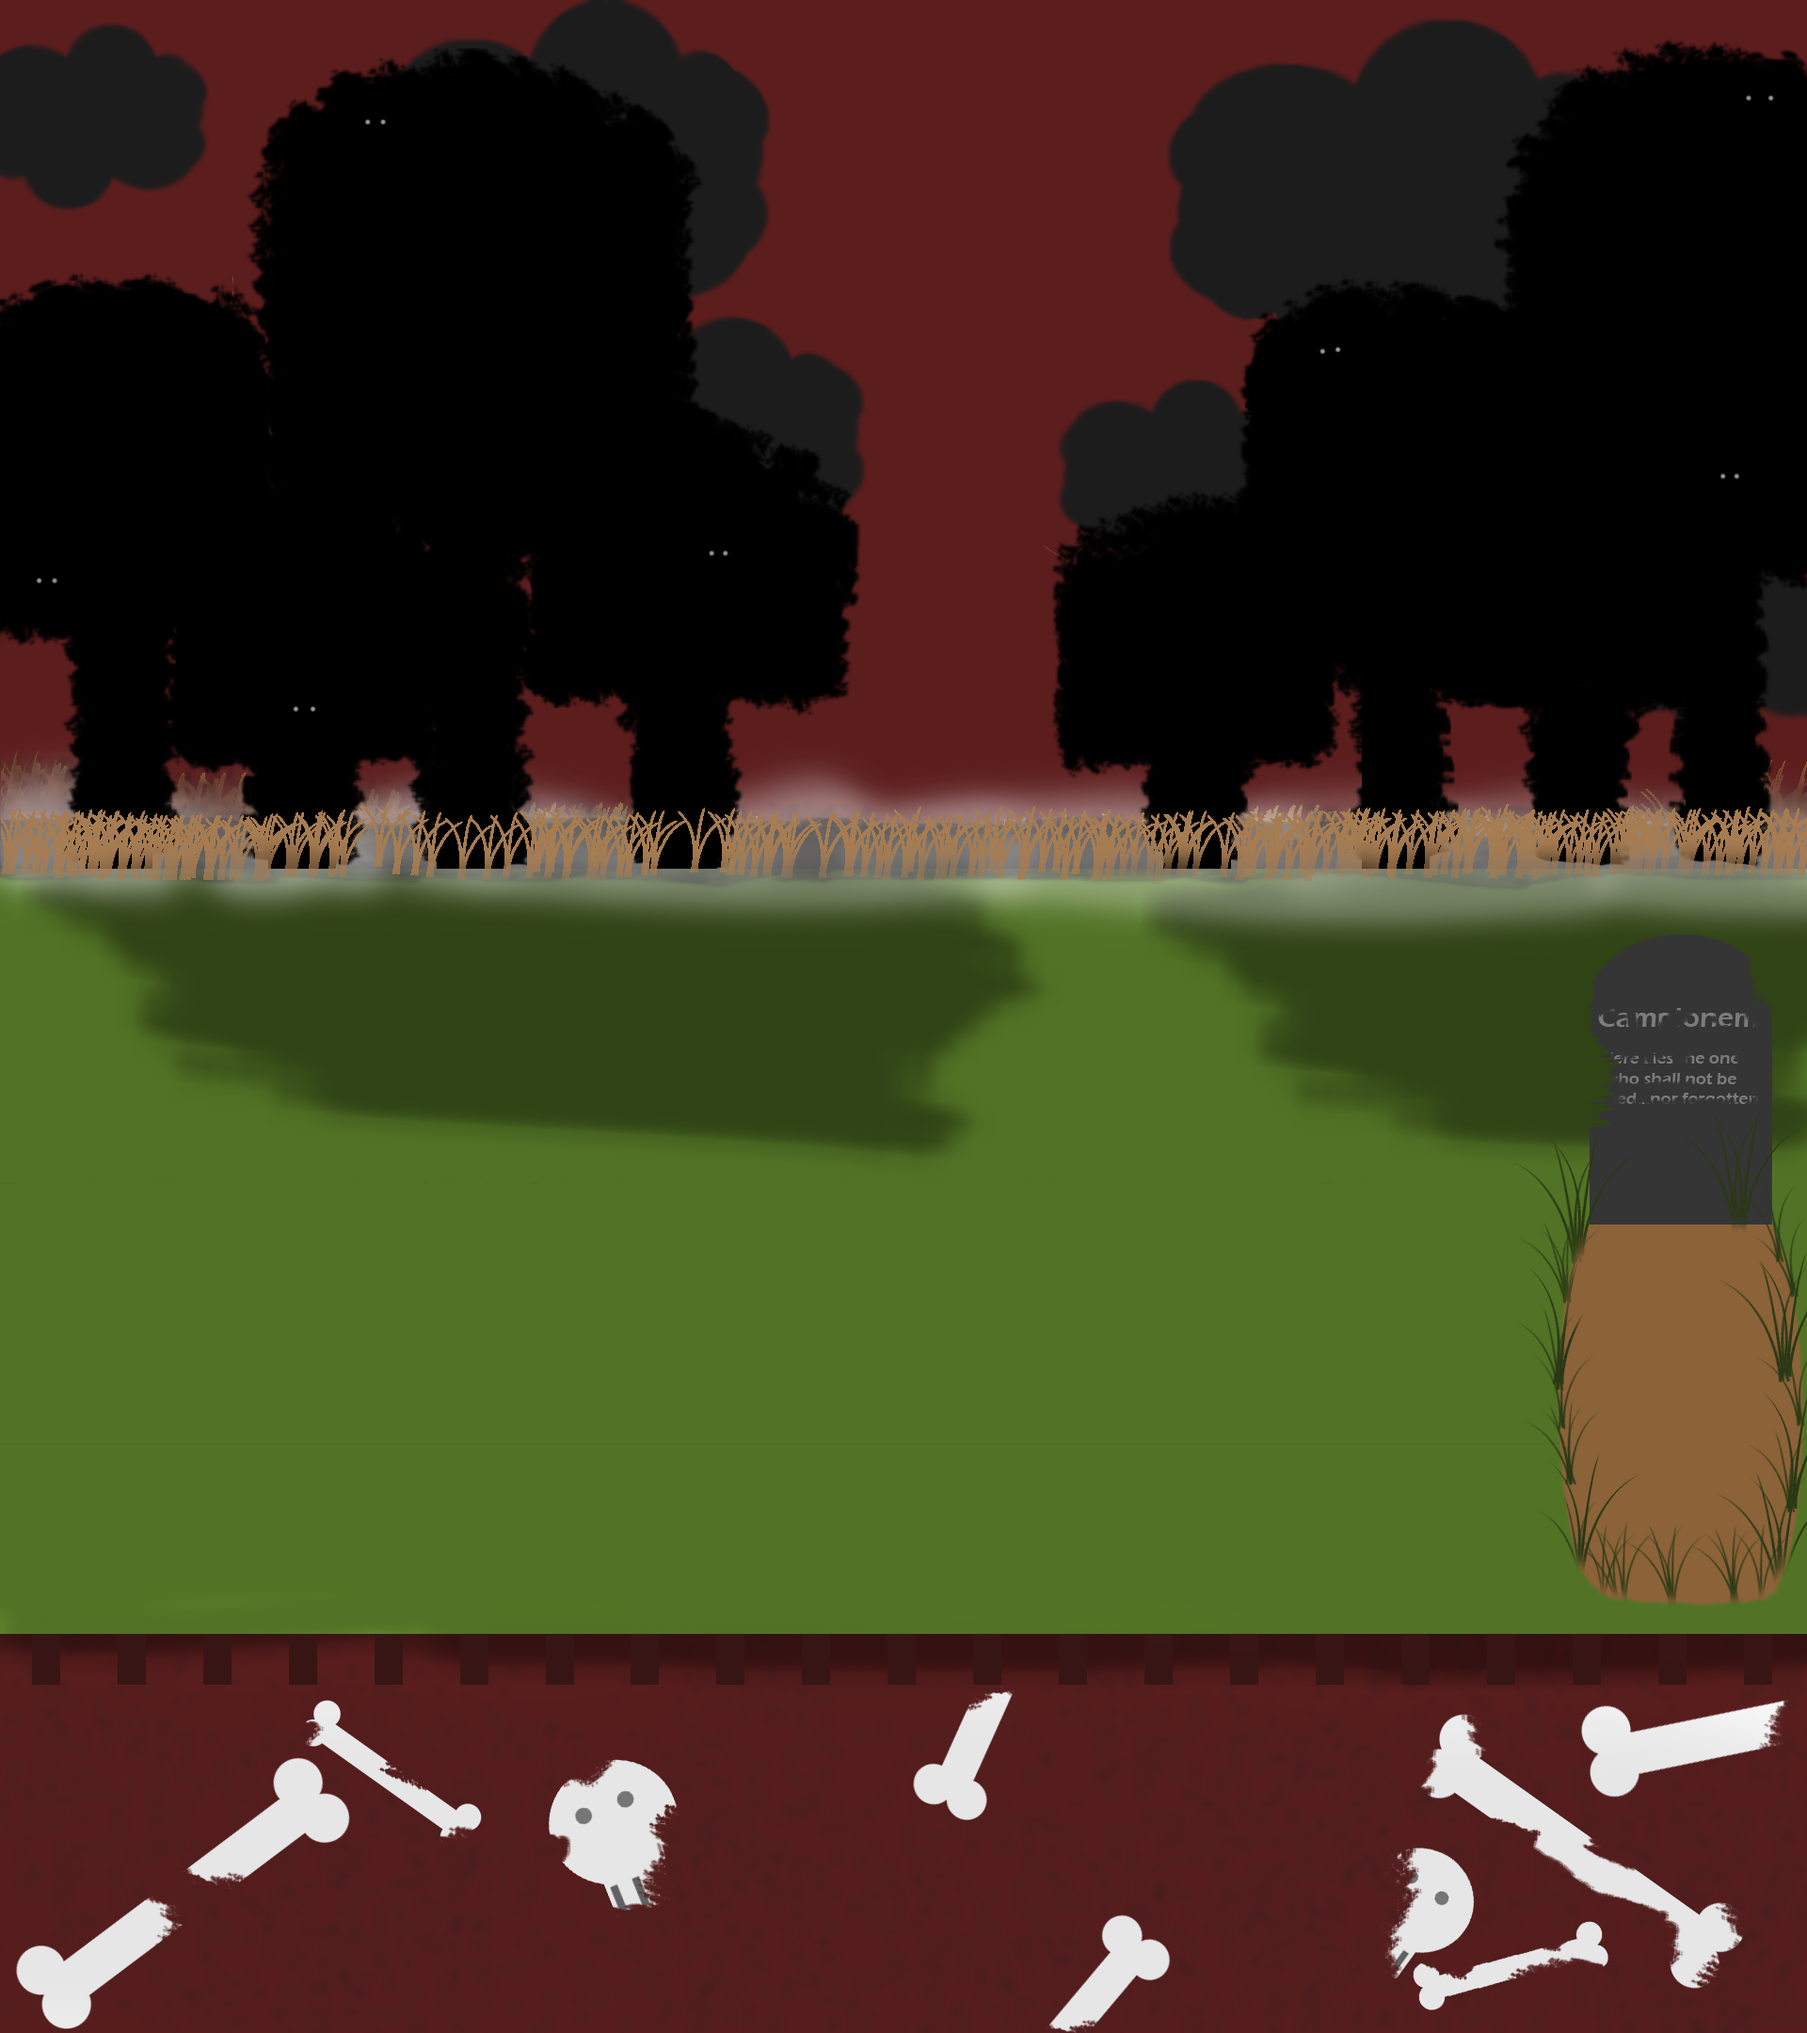
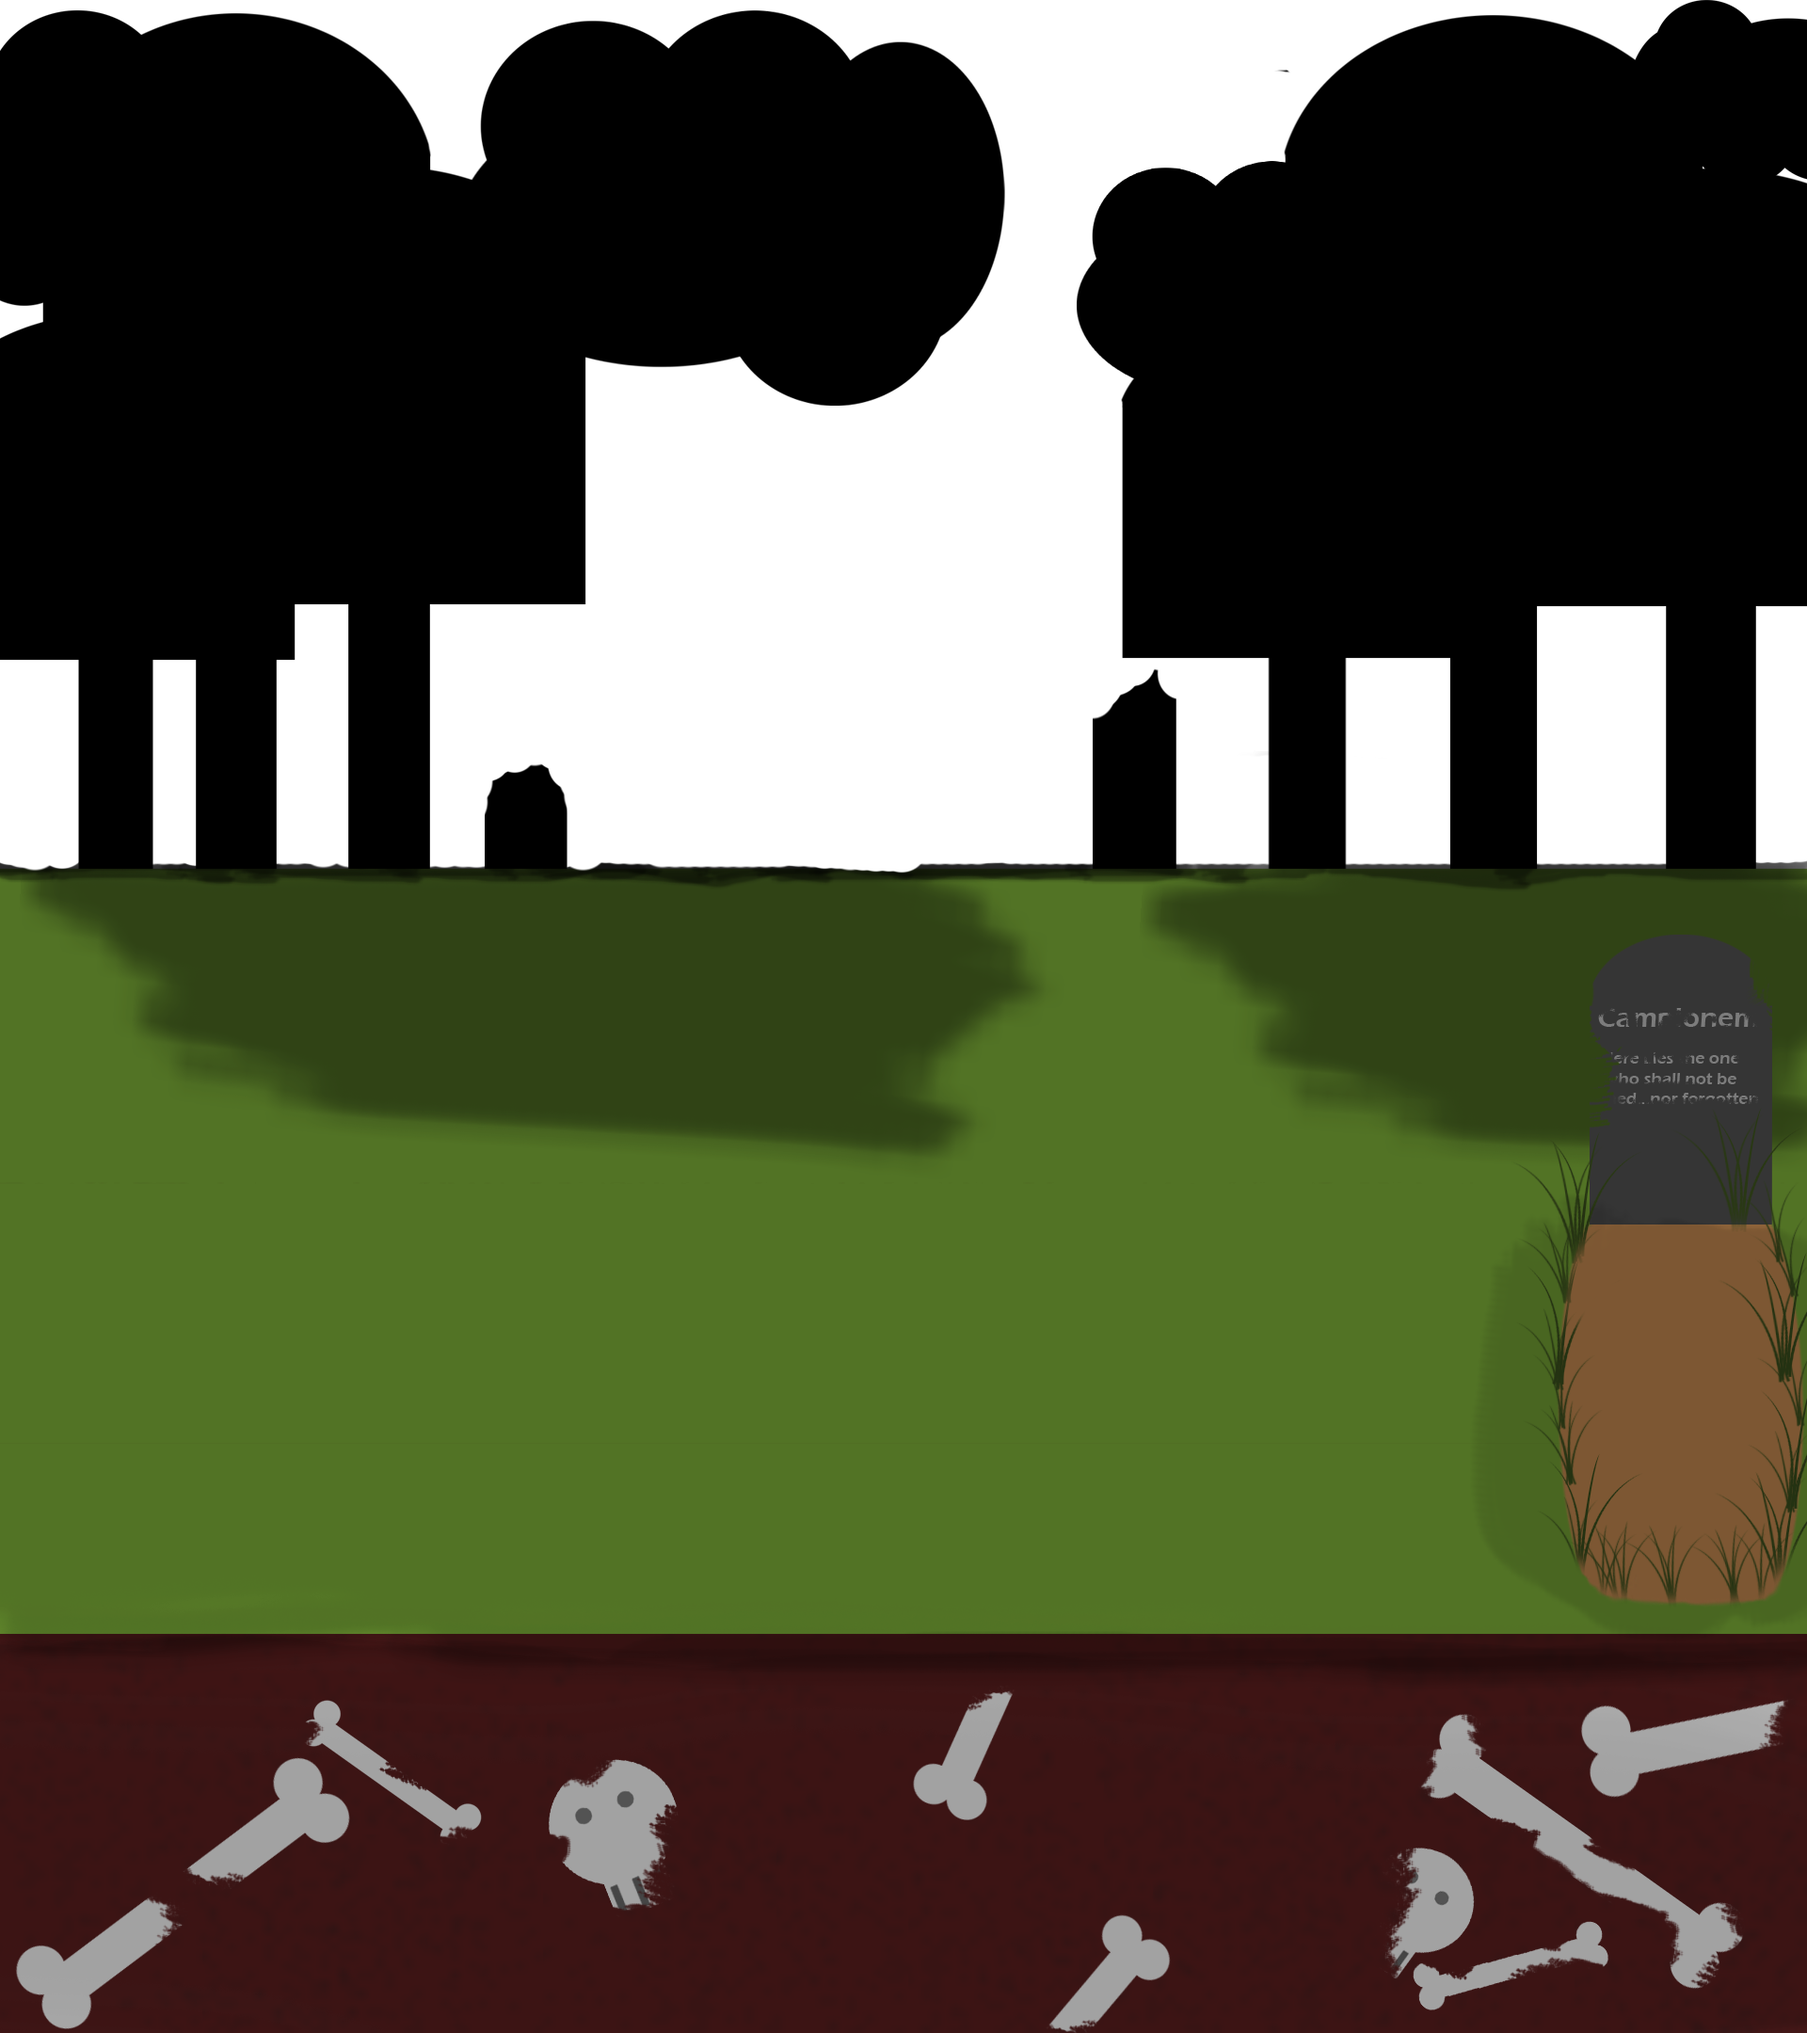
re-designed destroyed background, updated javascript code for destruction feature to make the site more responsive to screen sizes once the site is destroyed

diff --git a/js/destroy.js b/js/destroy.js
@@ -28,12 +28,31 @@ const newDestroy = () => {
     mainWrapper.style.animation = 'fadeOut 2.5s';
 
     window.setTimeout(() => {
-        repairButton.style.display = 'block';
-        repairButton.style.animation = 'fadeIn 2.5s';
-        body.style.backgroundImage = "url('./img/background_dark.png')";
-        body.style.backgroundColor = '#551d1d';
-        mainWrapper.style.display = 'none';
-        body.style.height = '1500px';
+        if (html.clientWidth < 900) {
+            repairButton.style.display = 'block';
+            repairButton.style.animation = 'fadeIn 2.5s';
+            body.style.backgroundImage = "url('./img/background_dark.png')";
+            body.style.backgroundColor = '#551d1d';
+            body.style.backgroundPosition = 'top right';
+            mainWrapper.style.display = 'none';
+        }
+        else if (html.clientWidth < 1300) {
+            repairButton.style.display = 'block';
+            repairButton.style.animation = 'fadeIn 2.5s';
+            body.style.backgroundImage = "url('./img/background_dark.png')";
+            body.style.backgroundColor = '#551d1d';
+            body.style.backgroundPosition = 'top right';
+            body.style.height = '1100px';
+            mainWrapper.style.display = 'none';
+        } else {
+            repairButton.style.display = 'block';
+            repairButton.style.animation = 'fadeIn 2.5s';
+            body.style.backgroundImage = "url('./img/background_dark.png')";
+            body.style.backgroundColor = '#551d1d';
+            body.style.backgroundPosition = 'top right';
+            body.style.height = '2000px';
+            mainWrapper.style.display = 'none';
+        }
     }, 2000 );
 }
 
